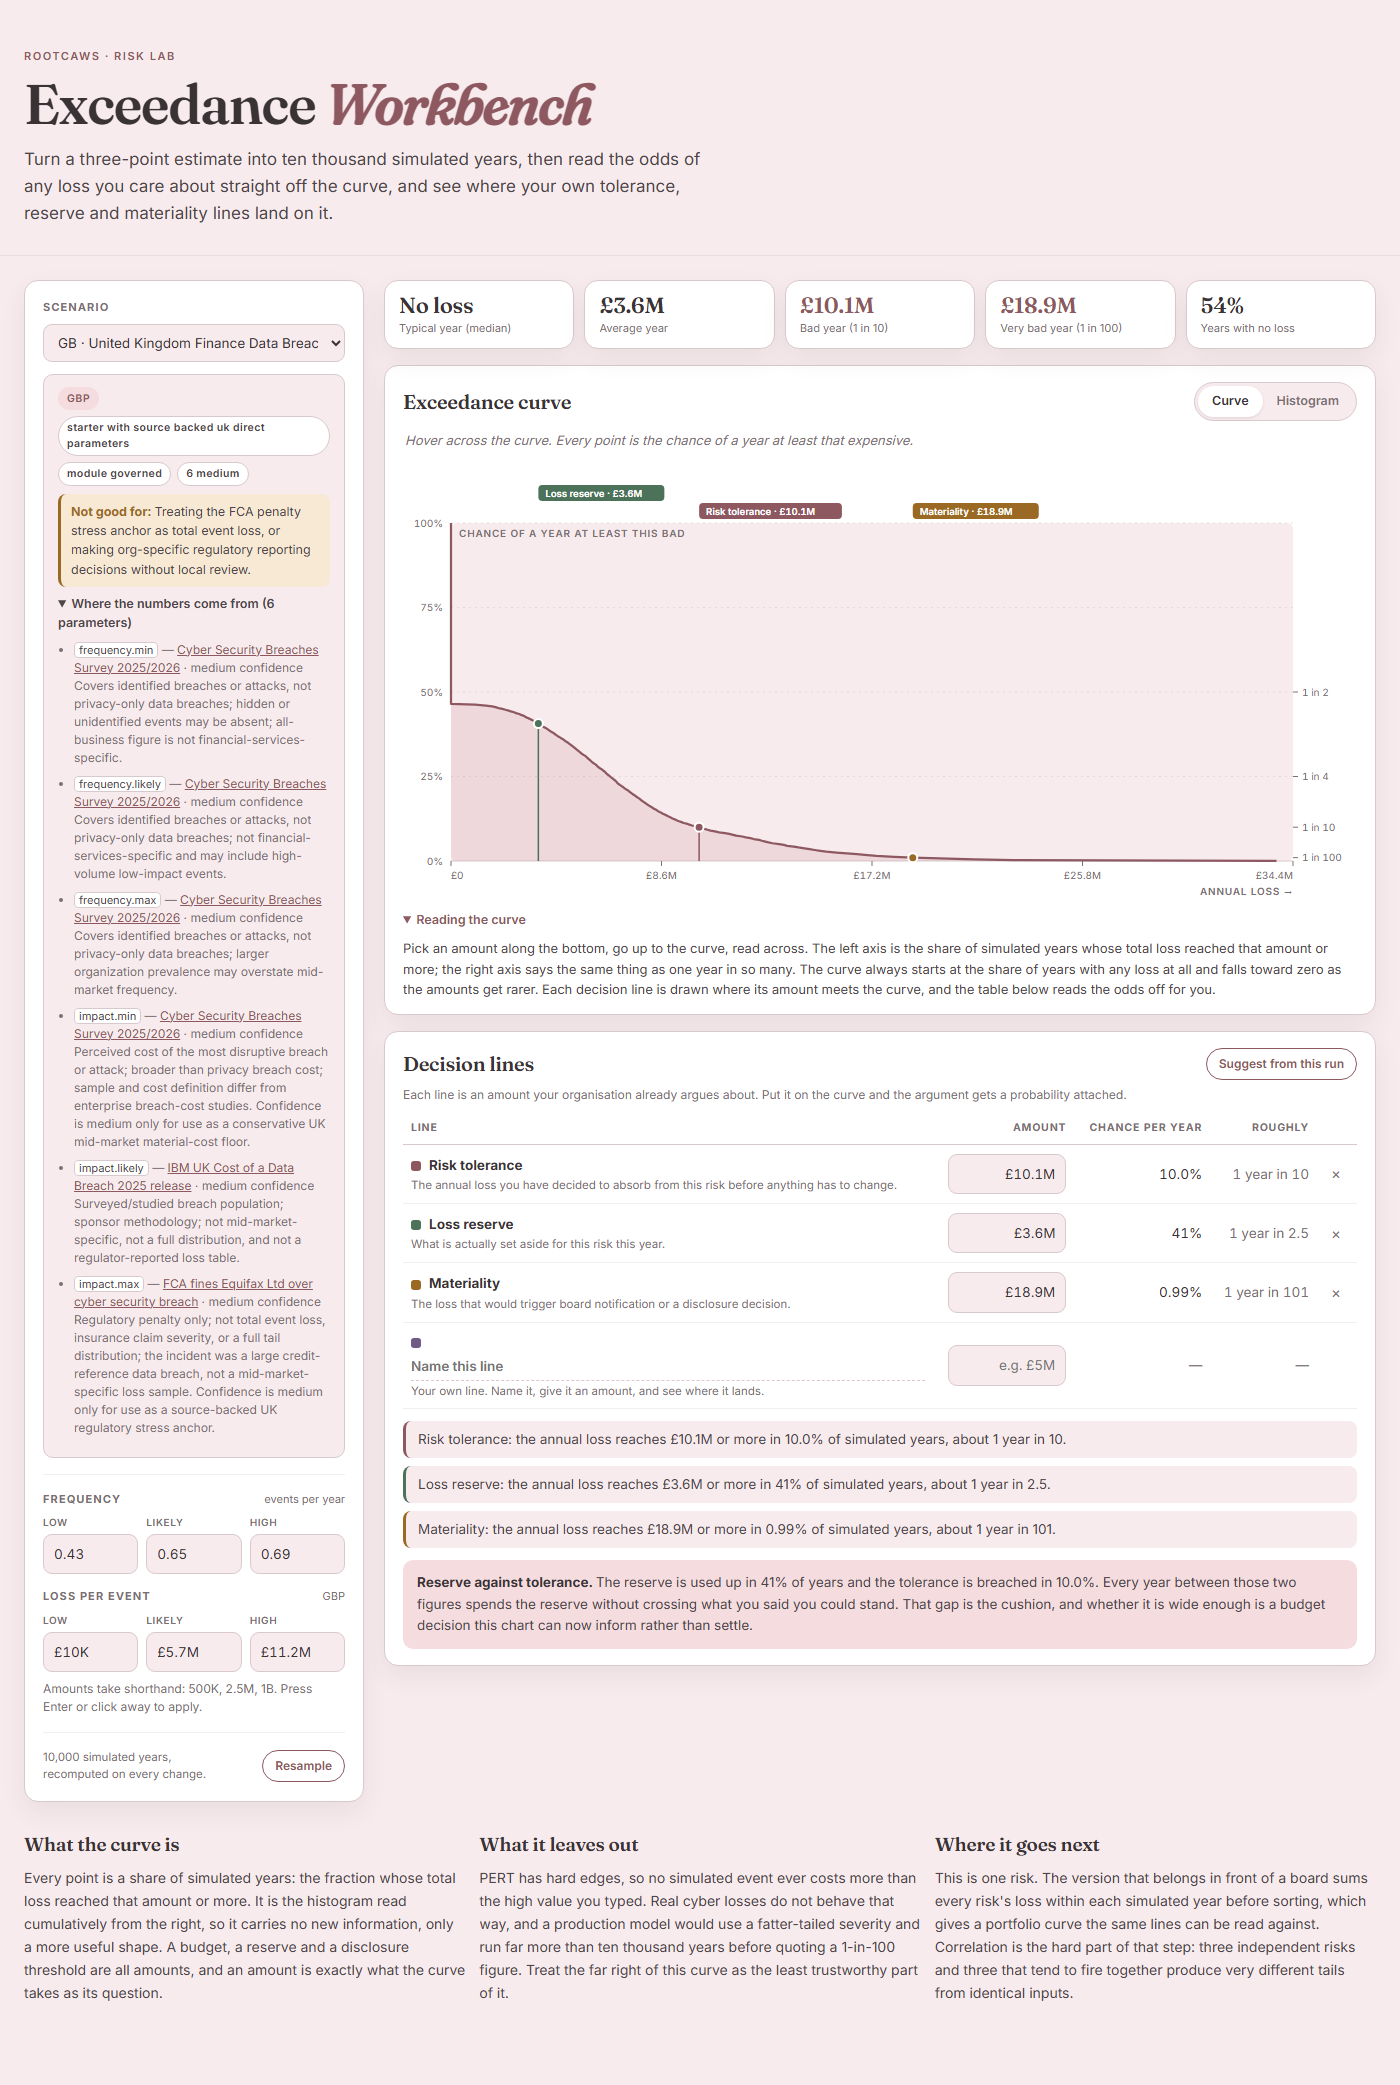
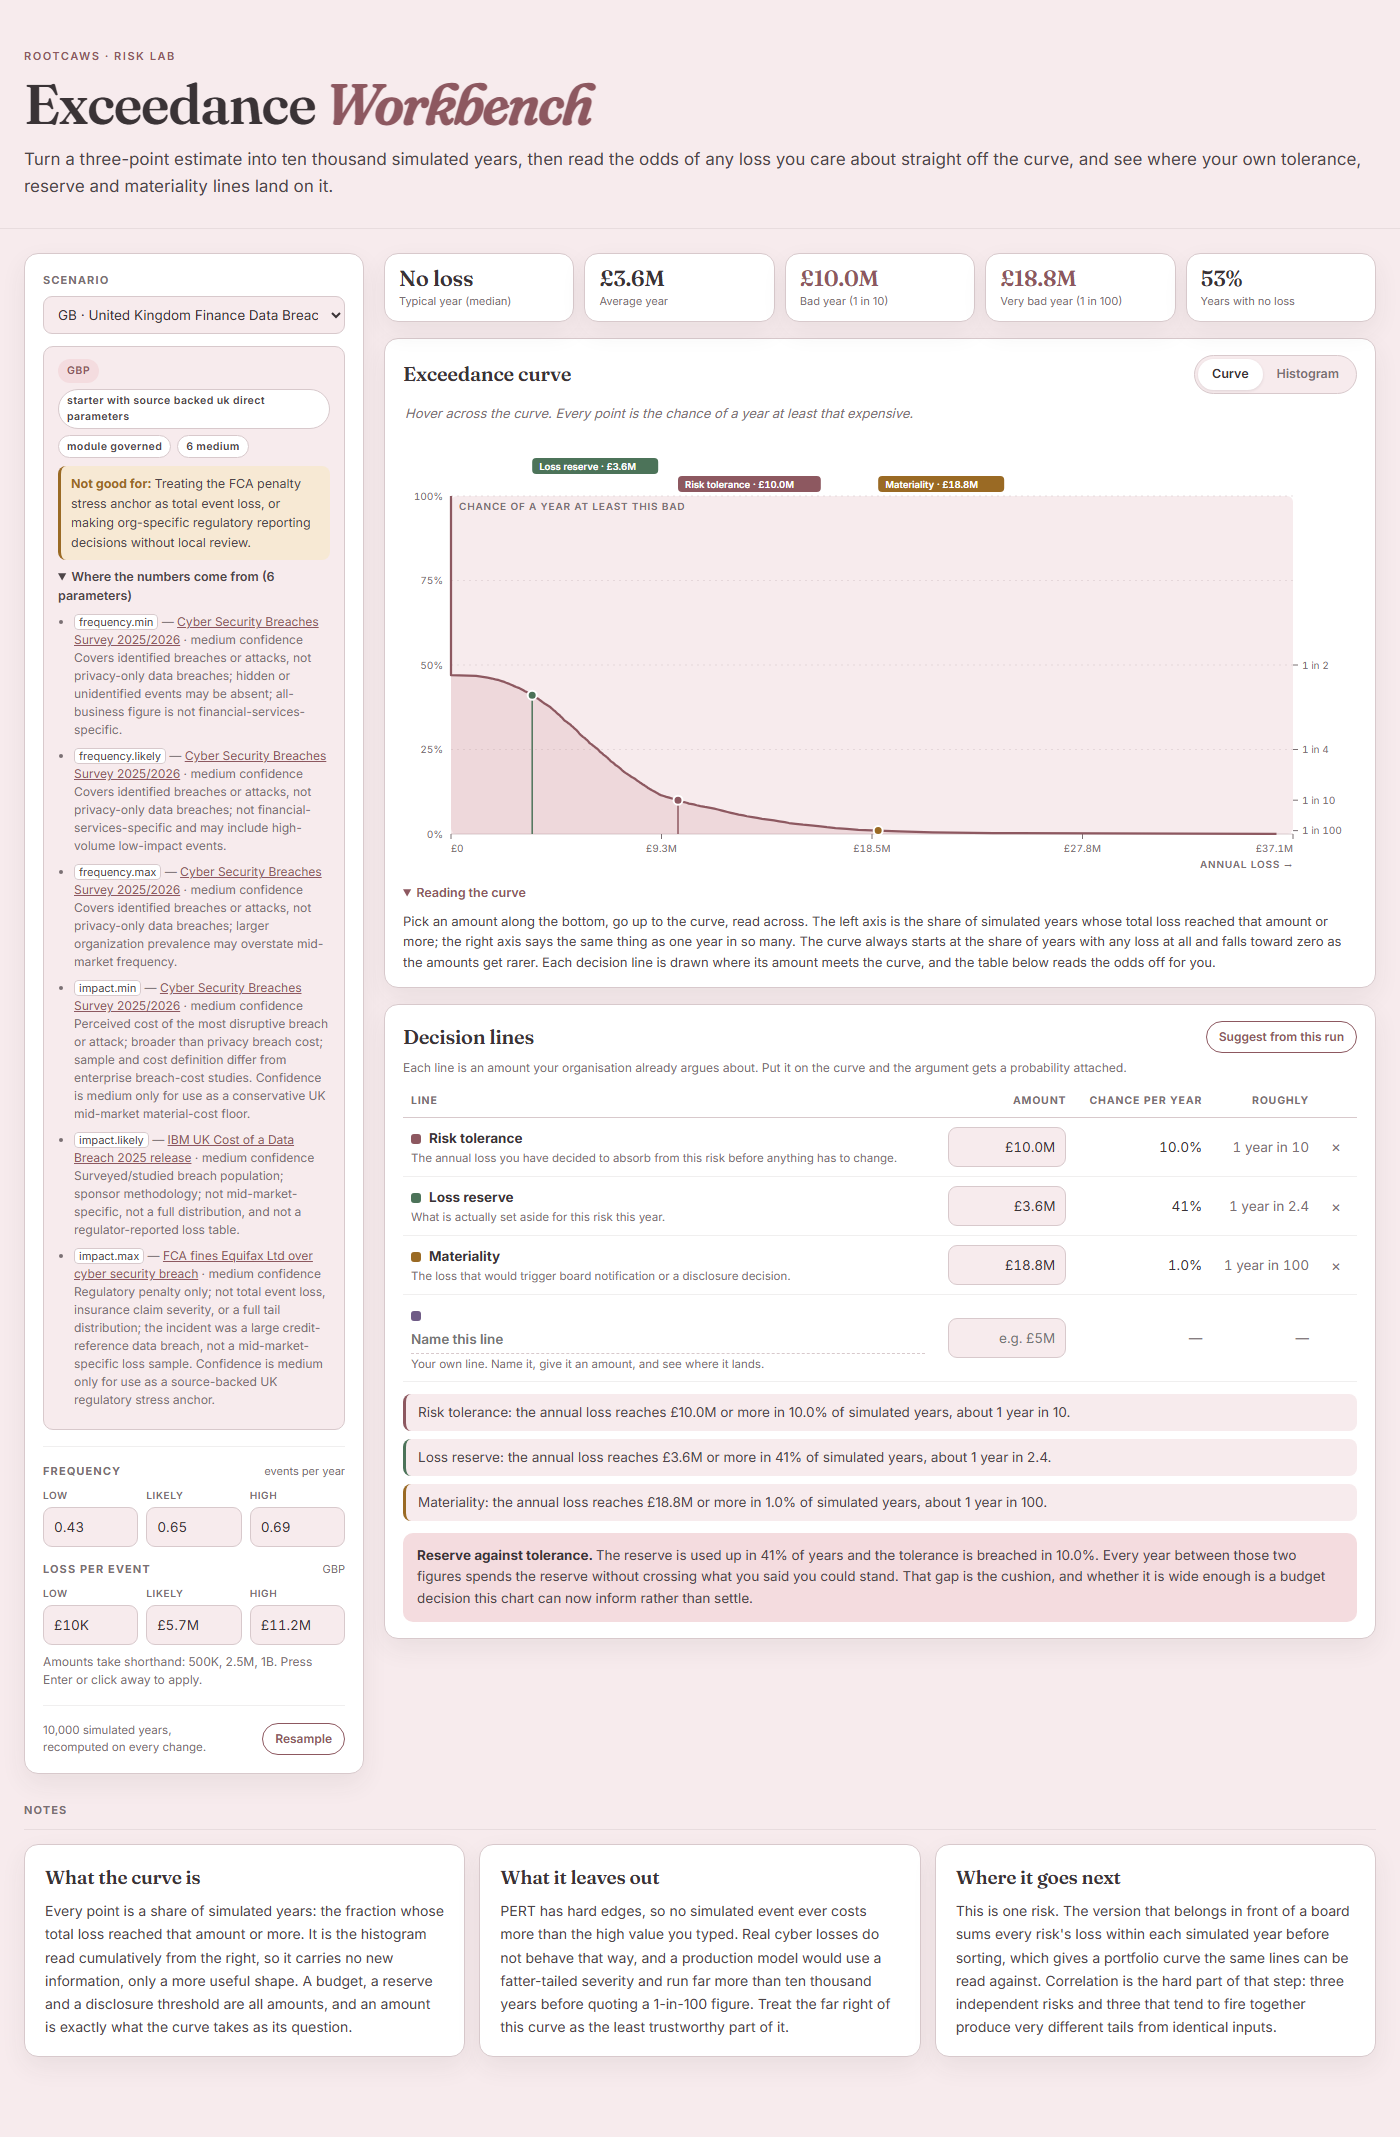
Run the introduction full width and card the notes
The intro paragraph was capped at a text measure while everything else
on the page runs the full container width. The notes at the foot were
bare columns on the page background; they now sit in the same cards as
the rest of the page, under a small section label.

diff --git a/index.html b/index.html
@@ -50,7 +50,7 @@
     .kicker{font-size:11px;font-weight:600;letter-spacing:.14em;text-transform:uppercase;color:var(--rose)}
     .masthead h1{font-family:var(--display);font-weight:600;font-size:clamp(34px,4.6vw,56px);line-height:1.02;letter-spacing:-.02em;margin:10px 0 14px}
     .masthead h1 em{font-style:italic;color:var(--rose)}
-    .deck{font-size:17px;color:var(--ink-2);max-width:64ch;line-height:1.6}
+    .deck{font-size:17px;color:var(--ink-2);line-height:1.6}
 
     .bench{display:grid;grid-template-columns:minmax(280px,340px) minmax(0,1fr);gap:20px;align-items:start;padding-top:24px}
     @media (max-width:899px){.bench{grid-template-columns:1fr}}
@@ -140,6 +140,8 @@
     }
 
     .notes{display:grid;grid-template-columns:repeat(3,1fr);gap:14px;padding-top:28px;padding-bottom:80px}
+    .notes::before{content:"Notes";grid-column:1/-1;font-size:11px;font-weight:700;letter-spacing:.1em;text-transform:uppercase;color:var(--muted);padding-bottom:10px;border-bottom:1px solid var(--soft-line)}
+    .note{background:var(--panel);border:1px solid var(--line);border-radius:var(--radius);box-shadow:var(--shadow);padding:18px 20px}
     @media (max-width:899px){.notes{grid-template-columns:1fr}}
     .note h3{font-family:var(--display);font-weight:600;font-size:19px;margin-bottom:8px;letter-spacing:-.01em}
     .note p{font-size:14px;color:var(--ink-2);line-height:1.65}
